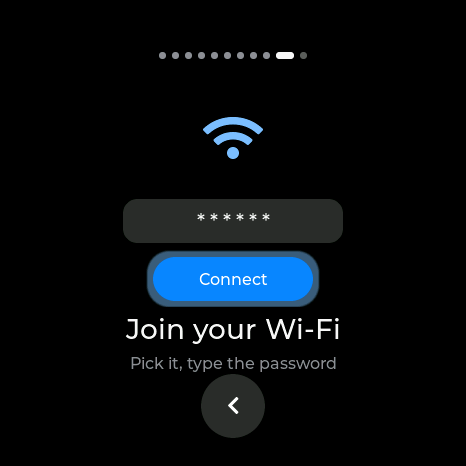
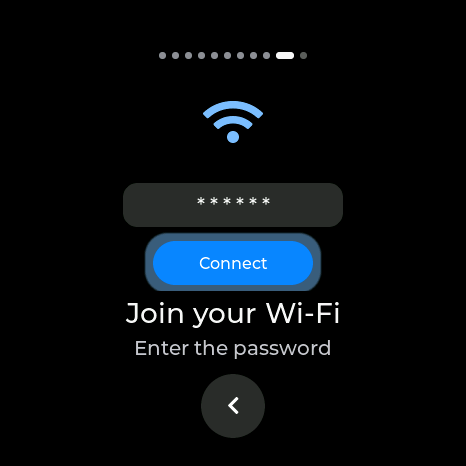
Muse gadget guide: pairing steps retaken with bigger key text
Step 5 now leads with Allow community devices on the gadget too.

Claude-Session: https://claude.ai/code/session_016shWURBXXspMSLmpPd7Luz

Changed region(s): [[0.2403, 0.3906, 0.7511, 0.8112], [0.4206, 0.2103, 0.5708, 0.3605]]

diff --git a/worker/routes/pages.ts b/worker/routes/pages.ts
@@ -209,16 +209,16 @@ const MUSE_GADGET_BODY = `
 <li><b>Scan for help</b> (optional). The QR code opens this page.
 <figure class="pair"><img src="/muse-gadget/pair-step1.png" width="466" height="466" alt="Step 1 on the gadget: a QR code, Pair with Muse, Scan for help"></figure></li>
 <li><b>Open the Muse app</b> and tap the <b>menu</b> (☰) at the top left.
-<figure class="pair"><img src="/muse-gadget/pair-step2.png" width="466" height="466" alt="Step 2: a phone outline with the menu button lit at the top left, Open Muse, Tap the menu"></figure></li>
+<figure class="pair"><img src="/muse-gadget/pair-step2.png" width="466" height="466" alt="Step 2: a phone outline with the menu button lit at the top left, Tap the menu, In the Muse app"></figure></li>
 <li>Tap <b>settings</b> (⚙) at the bottom left of the menu.
-<figure class="pair"><img src="/muse-gadget/pair-step3.png" width="466" height="466" alt="Step 3: a phone outline with the settings gear lit at the bottom left, Tap settings"></figure></li>
+<figure class="pair"><img src="/muse-gadget/pair-step3.png" width="466" height="466" alt="Step 3: a phone outline with the settings gear lit at the bottom left, Tap settings, Bottom left"></figure></li>
 <li>Tap <b>Devices</b>.
 <figure class="pair"><img src="/muse-gadget/pair-step4.png" width="466" height="466" alt="Step 4: a Devices row, Tap Devices"></figure></li>
-<li>Turn on <b>Allow community devices</b>. You only need to do this once.
-<figure class="pair"><img src="/muse-gadget/pair-step5.png" width="466" height="466" alt="Step 5: a switch turned on, Turn on, Allow community devices"></figure>
+<li>Turn on <b>Allow community devices</b>, under Developer mode. You only do this once.
+<figure class="pair"><img src="/muse-gadget/pair-step5.png" width="466" height="466" alt="Step 5: the app's Allow community devices row with its switch on, Allow community devices, Turn it on"></figure>
 <figure class="phone"><img src="/muse-gadget/app-allow.png" width="480" height="452" alt="The Muse app's Devices page: This device, and under Developer mode, Allow community devices switched on; a plus button at the top right"></figure></li>
 <li>Tap <b>+</b> at the top right of the Devices page.
-<figure class="pair"><img src="/muse-gadget/pair-step6.png" width="466" height="466" alt="Step 6: a phone outline with a plus button lit at the top right, Tap +, Top right"></figure></li>
+<figure class="pair"><img src="/muse-gadget/pair-step6.png" width="466" height="466" alt="Step 6: a phone outline with a plus button lit at the top right, Tap + top right"></figure></li>
 <li>The app lists the gadget by its name: <b>MuseGadgetVictorio</b> and a six-character code. Tap <b>Connect</b> next to it.
 <figure class="pair"><img src="/muse-gadget/pair-step7.png" width="466" height="466" alt="Step 7: a row with the gadget's name and a blue Connect button, Tap Connect"></figure>
 <figure class="phone"><img src="/muse-gadget/app-connect.png" width="480" height="271" alt="The Muse app's Connect a device sheet: the gadget's name with a Connect button, and Scan again"></figure></li>
@@ -226,10 +226,10 @@ const MUSE_GADGET_BODY = `
 <figure class="pair"><img src="/muse-gadget/pair-step8.png" width="466" height="466" alt="Step 8: a big round button and an arrow pointing to the top right edge, Press the top button"></figure>
 <figure class="phone"><img src="/muse-gadget/app-confirm.png" width="480" height="619" alt="The Muse app asks: Connect to the gadget? Confirm by pressing the button on your device. A Continue button below"></figure></li>
 <li>The app warns that this device will have full access to your agent. That's expected: the gadget talks to your agent on your behalf, and Meta hasn't reviewed it because it's a community device. If you trust whoever gave you the gadget, tap <b>Continue anyway</b>.
-<figure class="pair"><img src="/muse-gadget/pair-step9.png" width="466" height="466" alt="Step 9: a Continue anyway button, Tap on your phone"></figure>
+<figure class="pair"><img src="/muse-gadget/pair-step9.png" width="466" height="466" alt="Step 9: a Continue anyway button, Tap Continue anyway, On your phone"></figure>
 <figure class="phone"><img src="/muse-gadget/app-warning.png" width="480" height="390" alt="The Muse app's warning: this community device will be able to read and send messages, change your files, approve actions and use your browser; buttons Exit to safety and Continue anyway"></figure></li>
 <li><b>Choose your Wi-Fi</b>, type its password and tap <b>Connect</b>. The app gives it to the gadget over Bluetooth.
-<figure class="pair"><img src="/muse-gadget/pair-step10.png" width="466" height="466" alt="Step 10: a Wi-Fi symbol, a password field and a Connect button, Join your Wi-Fi"></figure>
+<figure class="pair"><img src="/muse-gadget/pair-step10.png" width="466" height="466" alt="Step 10: a Wi-Fi symbol, a password field and a Connect button, Join your Wi-Fi, Enter the password"></figure>
 <figure class="phone"><img src="/muse-gadget/app-wifi.png" width="480" height="291" alt="The Muse app's Set up page: Connect to network, a network name (blanked) and its password"></figure></li>
 <li>Wait while it connects to your Wi-Fi and your Muse. Then the home screen appears and you can talk to it.
 <figure class="pair"><img src="/muse-gadget/pair-step11.png" width="466" height="466" alt="Step 11: a spinner, Connecting"></figure></li>
